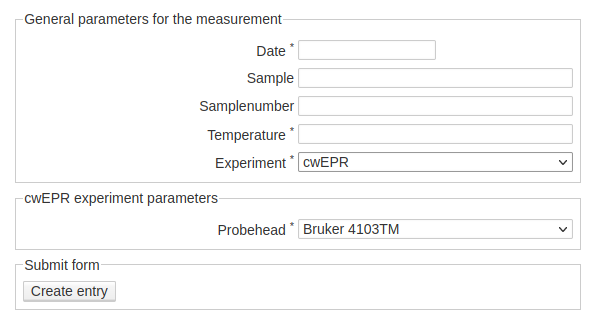
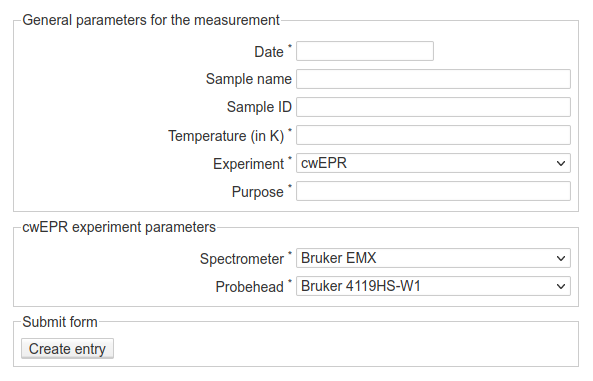
Update documentation: start describing calculations; some minor tweaks

diff --git a/docs/user/index.rst b/docs/user/index.rst
@@ -13,22 +13,57 @@ This user manual assumes a **working installation of the LabInform ELN** to be a
 Furthermore, **basic familiarity with the formatting syntax of Dokuwiki** is assumed, as each individual page (be it for labbook entries, samples, or else) is a wiki page using the DokuWiki markup. Those new to DokuWiki may have a look at the `excellent official documentation of the DokuWiki syntax <https://www.dokuwiki.org/wiki:syntax>`_.
 
 
+Scope
+=====
+
+Each ELN needs to be adapted to the special needs of the individual scientist or work group. To do so, you need to understand the processes in your lab in a detail that allows you to model them in an electronic workflow such as an ELN. Hence, there is **no turnkey solution** that works out of the box. Having that said, this documentation (and particularly this user manual section) focusses on the functionality as provided by the `demo instance <https://eln.labinform.de/>`_ available online (https://eln.labinform.de/).
+
+Therefore, this user manual will guide you through the different aspects of the LabInform ELN demo instance, explaining the workflow and the ideas behind. Note that different areas of the ELN purposefully use different solutions to similar problems to demonstrate the approaches available.
+
+
 Contents
 ========
+
+Overview
+--------
 
   * :doc:`Workflow <workflow>`
 
     The overall workflow of the LabInform ELN as implemented in the demo instance and used in the authors' lab is described. For details of the individual aspects, refer to the sections of the manual referenced below.
 
+
+Experimental work: (spectroscopic) measurements of samples
+----------------------------------------------------------
+
   * :doc:`Batches <batches>`
 
-    ...
+    All measurements are carried out on samples that in turn are derived from batches. A batch can be the individual supply from collaborations, syntheses, or manufacturers and is the starting point of a sample.
 
   * :doc:`Samples <samples>`
 
-    ...
+    All measurements are carried out on samples. Here, the term refers to the actual entity that gets investigated and that is the result of some preparation starting with (parts of) a batch.
 
   * :doc:`Measurements <measurements>`
 
-    ...
+    As the LabInform ELN is developed from spectroscopists and (not only) for spectroscopists, the actual measurement (*i.e.*, experiment) and its appropriate documentation is a central aspect of the ELN. All measurements are carried out on samples.
+
+
+.. todo::
+    Add syntheses here as an additional, rather special workflow; mention at least sample containers (cells, tubes) and substrates.
+
+
+Theoretical work: (quantum-chemical) calculations
+-------------------------------------------------
+
+  * :doc:`Molecules <molecules>`
+
+    Calculations are performed on geometries that belong to a molecule. Therefore, one molecule can have many associated geometries. In the easiest and most obvious case, you start with a non-optimised geometry assembled in some program and afterwards run a geometry optimisation. Other reasons for several geometries are conformations and isomers, as well as different spin multiplicities or explicit enviroments that will lead to (slightly) different geometries as well.
+
+  * :doc:`Geometries <geometries>`
+
+    Calculations are performed on geometries that belong to a molecule. Hence, a geometry always belongs to a molecule, while the same molecule may have several different geometries (see above).
+
+  * :doc:`Calculations <calculations>`
+
+    Calculations are performed on geometries and may result in new geometries (in case of a geometry optimisation) or, more general, in a list of properties of the molecule, be it a transition dipole moment or magnetic resonance parameters, to name but a few.
 

diff --git a/docs/index.rst b/docs/index.rst
@@ -63,14 +63,14 @@ Non-Features
 
 A few things the LabInform ELN does not provide/implement:
 
-* Data store, aka repository
+* Data store, aka repository\*
 * Research data catalogue
-* Management of measurement setups in the lab
-* General project management, including proposals and publications
+* Management of measurement setups in the lab\*
+* General project management, including proposals and publications\*
 * General inventory for consumables
-* Analysis workflow for data
+* Analysis workflow for data\*\*
 
-The main reason lies in the "separation of concerns" (E. Dijkstra), focussing on one task at a time using one dedicated tool. Some of the "non-features" described above are, however, part of the `wider LabInform LIMS <https://www.labinform.de/>`_ the LabInform ELN is only one part of. If you are interested in a reproducible analysis workflow of spectroscopic data, have a look at the `ASpecD framework <https://docs.aspecd.de/>`_ and related packages.
+The main reason lies in the "separation of concerns" (E. Dijkstra), focussing on one task at a time using one dedicated tool. Some of the "non-features" described above (and marked with an asterisk: \*) are, however, part of the `wider LabInform LIMS <https://www.labinform.de/>`_ the LabInform ELN is only one part of. If you are interested in a reproducible analysis workflow of spectroscopic data (\*\*), have a look at the `ASpecD framework <https://docs.aspecd.de/>`_ and related packages.
 
 
 .. _sec-how_to_cite:
@@ -138,6 +138,9 @@ There is a number of related packages users of the LabInform ELN may well be int
    user/batches
    user/samples
    user/measurements
+   user/molecules
+   user/geometries
+   user/calculations
 
 
 .. toctree::

diff --git a/docs/user/geometries.rst b/docs/user/geometries.rst
@@ -1,0 +1,19 @@
+Geometries
+==========
+
+As described in the :doc:`workflow <./workflow>`, when documenting calculations, each calculation is carried out on an individual geometry that in turn is derived from a molecule. Hence, before creating calculation entries, you will first need to create a molecule and a geometry. This may appear unnecessarily complicated at first, but it tremendously helps with organising your calculations and finding and accessing all relevant information.
+
+
+Create a new geometry
+---------------------
+
+.. figure:: ../images/geometry-form.png
+    :align: center
+
+    Web-form for creating a new entry for a geometry. A geometry is always based on a molecule, hence the molecule ID is the first piece of information to be entered. Additional required fields are a (short) description, the multiplicity and whether the geometry has been optimised. Usually, the latter piece of information will be "false" for the first geometry of a molecule, but as you will want to perform a geometry optimisation on a raw geometry, the result will be a new and optimised geometry of the same molecule. Only in case of the geometry to be optimised will you see the additional required field for entering the ID of the underlying calculation (*i.e.*, geometry optimisation).
+
+
+Some comments on the fields of the form:
+
+* ...
+

diff --git a/docs/user/measurements.rst b/docs/user/measurements.rst
@@ -1,6 +1,8 @@
 Measurements
 ============
 
+...
+
 
 Create a new labbook entry
 --------------------------
@@ -8,7 +10,13 @@ Create a new labbook entry
 .. figure:: ../images/measurement-form.png
     :align: center
 
-    Web-form for creating a new labbook entry for an individual measurement. As you can see, the reference to a sample is one of the required fields, and here, you will enter the sample number. Furthermore, depending on the method chosen, additional form fields may show up.
+    Web-form for creating a new labbook entry for an individual measurement. As you can see, the reference to a sample is one of the required fields, and here, you will enter the sample number. Furthermore, depending on the method chosen, (different) additional form fields may show up.
+
+
+.. figure:: ../images/measurement-form-trepr.png
+    :align: center
+
+    Web-form for creating a new labbook entry for an individual measurement, but with different type of experiment selected. Depending on the experiment, other additional fields will show up, and different presets for select fields can be set.
 
 
 Some comments on the fields of the form:

diff --git a/docs/user/molecules.rst b/docs/user/molecules.rst
@@ -1,0 +1,19 @@
+Molecules
+=========
+
+As described in the :doc:`workflow <./workflow>`, when documenting calculations, each calculation is carried out on an individual geometry that in turn is derived from a molecule. Hence, before creating calculation entries, you will first need to create a molecule and a geometry. This may appear unnecessarily complicated at first, but it tremendously helps with organising your calculations and finding and accessing all relevant information.
+
+
+Create a new molecule
+---------------------
+
+.. figure:: ../images/molecule-form.png
+    :align: center
+
+    Web-form for creating a new entry for a molecule. In this case, there is only one required field, namely the name that should be a concise and comprehensive description. Additionally, you may optionally enter a batch ID in case you perform calculations on molecules that are physically present in your lab as well and have been measured in one way or other.
+
+
+Some comments on the fields of the form:
+
+* ...
+

diff --git a/docs/user/calculations.rst b/docs/user/calculations.rst
@@ -1,0 +1,19 @@
+Calculations
+============
+
+As described in the :doc:`workflow <./workflow>`, when documenting calculations, each calculation is carried out on an individual geometry that in turn is derived from a molecule. Hence, before creating calculation entries, you will first need to create a molecule and a geometry. This may appear unnecessarily complicated at first, but it tremendously helps with organising your calculations and finding and accessing all relevant information.
+
+
+Create a new calculation
+------------------------
+
+.. figure:: ../images/calculation-form.png
+    :align: center
+
+    Web-form for creating a new entry for a calculation. All fields shown are required. Besides date (that can be chosen using a convenient date picker) and the ID of the underlying geometry, all other field values are selected from a list. This controlled vocabulary can be set from the DokuWiki admin interface.
+
+
+Some comments on the fields of the form:
+
+* ...
+

diff --git a/docs/developer/people.rst b/docs/developer/people.rst
@@ -4,6 +4,6 @@ People
 
 Who are the people behind the LabInform ELN?
 
-In late 2012, Till Biskup started using DokuWiki as an ELN in a systematic way, with pages for every measurement, and forms to create the individual ELN pages, much in the same way as it is done now. Quickly, other people in the group got interested and got installations by themselves.
+In late 2012, Till Biskup started using DokuWiki as an ELN in a systematic way, with pages for every measurement, and forms to create the individual ELN pages, much in the same way as it is done now. For this, he could look back at about five years of experience using DokuWiki in a lab context as general knowledge management tool. Quickly, other people in the group got interested and got installations by themselves.
 
 In 2019, Mirjam Schröder joined the development team, as she got interested in an ELN based on DokuWiki herself.

diff --git a/docs/admin/installing.rst b/docs/admin/installing.rst
@@ -114,6 +114,12 @@ There is a series of general configuration settings that should be changed from 
     |              +-------------------+-------------------+
     |              | showeditbtn       | uncheck           |
     +--------------+-------------------+-------------------+
+    | Snippets     | snips_updatable   | uncheck           |
+    |              +-------------------+-------------------+
+    |              | old_revisions     | uncheck           |
+    |              +-------------------+-------------------+
+    |              | userreplace       | uncheck           |
+    +--------------+-------------------+-------------------+
 
 Of course, you can deviate from some of the settings given here without impairing functionality, as some are merely a matter of personal taste. Nevertheless, others are necessary for the DokuWiki to work as intended.
 

diff --git a/docs/user/workflow.rst b/docs/user/workflow.rst
@@ -77,3 +77,15 @@ Similarly to the workflow described above for documenting measurements, the work
     General workflow for documenting quantum-chemical calculations: Calculations are performed on geometries that belong to a molecule. There can (and usually will) be more than one geometry for a molecule. The results of calculations can be new geometries, parameters, or both.
 
 
+Adding a molecule and a geometry to the inventory
+-------------------------------------------------
+
+
+:Molecule:
+    Chemical structure without consideration of conformations etc.
+    For every molecule there is at least one geometry.
+
+:Geometry:
+    The structure (coordinates) on which real calculations are made at the end.
+    Each geometry belongs to a molecule.
+
